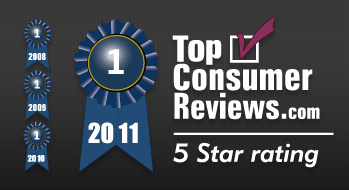
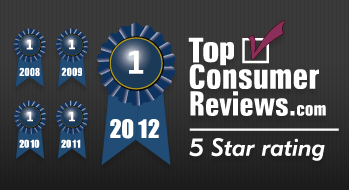
updated top consumer to 2012 on sem page

diff --git a/src/apps/common/static/css/affiliates/sem-landing-page/home.css b/src/apps/common/static/css/affiliates/sem-landing-page/home.css
@@ -77,10 +77,10 @@ a:hover{color:#0069aa;text-decoration:underline;}
 a.button-link{background:#0069aa;color:#ffffff;padding:4px 24px;text-decoration:none;background-image:-moz-linear-gradient(top, #0069aa, #005f9a);background-image:-webkit-gradient(linear, left top, left bottom, from(#0069aa), to(#005f9a));border:1px solid transparent;}a.button-link:hover{background-image:-moz-linear-gradient(center top, #0069aa, #00568b);background-image:-webkit-gradient(linear, left top, left bottom, from(#0069aa), to(#00568b));border:1px solid #094182;border-bottom:1px solid #023269;-webkit-box-shadow:0 1px 1px rgba(0, 0, 0, 0.3);-moz-box-shadow:0 1px 1px rgba(0, 0, 0, 0.3);box-shadow:0 1px 1px rgba(0, 0, 0, 0.3);}
 .phone-alt{display:inline;}
 .button-link{margin-top:16px;}.button-link a{background:#0069aa;color:#ffffff;padding:4px 24px;text-decoration:none;background-image:-moz-linear-gradient(top, #0069aa, #005f9a);background-image:-webkit-gradient(linear, left top, left bottom, from(#0069aa), to(#005f9a));border:1px solid transparent;}.button-link a:hover{background-image:-moz-linear-gradient(center top, #0069aa, #00568b);background-image:-webkit-gradient(linear, left top, left bottom, from(#0069aa), to(#00568b));border:1px solid #094182;border-bottom:1px solid #023269;-webkit-box-shadow:0 1px 1px rgba(0, 0, 0, 0.3);-moz-box-shadow:0 1px 1px rgba(0, 0, 0, 0.3);box-shadow:0 1px 1px rgba(0, 0, 0, 0.3);}
-.button-link span{padding-left:16px;font-size:12px;}.button-link span strong{color:#e51b24;}
+.button-link span{font-size:12px;}.button-link span strong{color:#e51b24;}
 .button-link p.phone-alt{display:inline;padding-left:8px;font-size:12px !important;color:#4a505a !important;}.button-link p.phone-alt strong{color:#e51b24;}
 .button-submit{margin-top:16px;text-align:center;}.button-submit a{background:#0069aa;color:#ffffff;padding:4px 24px;text-decoration:none;background-image:-moz-linear-gradient(top, #0069aa, #005f9a);background-image:-webkit-gradient(linear, left top, left bottom, from(#0069aa), to(#005f9a));border:1px solid transparent;}.button-submit a:hover{background-image:-moz-linear-gradient(center top, #0069aa, #00568b);background-image:-webkit-gradient(linear, left top, left bottom, from(#0069aa), to(#00568b));border:1px solid #094182;border-bottom:1px solid #023269;-webkit-box-shadow:0 1px 1px rgba(0, 0, 0, 0.3);-moz-box-shadow:0 1px 1px rgba(0, 0, 0, 0.3);box-shadow:0 1px 1px rgba(0, 0, 0, 0.3);}
-.button-submit span{padding-left:16px;font-size:12px;}.button-submit span strong{color:#e51b24;}
+.button-submit span{font-size:12px;}.button-submit span strong{color:#e51b24;}
 .button-submit p.phone-alt{display:inline;padding-left:8px;font-size:12px !important;color:#4a505a !important;}.button-submit p.phone-alt strong{color:#e51b24;}
 .button-submit a{background:#90af01;background-image:-moz-linear-gradient(top, #90af01, #829e01);background-image:-webkit-gradient(linear, left top, left bottom, from(#90af01), to(#829e01));border:1px solid transparent;}.button-submit a:hover{background-image:-moz-linear-gradient(center top, #90af01, #687e01);background-image:-webkit-gradient(linear, left top, left bottom, from(#90af01), to(#687e01));border:1px solid #768f03;border-bottom:1px solid #576902;-webkit-box-shadow:0 1px 1px rgba(0, 0, 0, 0.3);-moz-box-shadow:0 1px 1px rgba(0, 0, 0, 0.3);box-shadow:0 1px 1px rgba(0, 0, 0, 0.3);}
 table.data{width:100%;margin:10px 0;border:1px solid #cccccc;-moz-box-shadow:0px 2px 5px #cccccc;-webkit-box-shadow:0px 2px 5px #cccccc;box-shadow:0px 2px 5px #cccccc;border-radius:10px 10px 10px 10px;-moz-border-radius:10px 10px 10px 10px;-webkit-border-top-left-radius:10px;-webkit-border-top-right-radius:10px;-webkit-border-bottom-left-radius:10px;-webkit-border-bottom-right-radius:10px;}table.data thead th{text-transform:uppercase;font-weight:800;text-align:center;padding:5px 5px;background:#d9f2ff;border-bottom:1px solid #cccccc;border-right:1px solid #cccccc;cursor:pointer;cursor:hand;font-size:12px;}table.data thead th span.up-arrow{background:url(../images/up-arrow.png) right no-repeat;padding-right:15px;}
@@ -113,7 +113,7 @@ table#licenses-table tr.license-requirement td{font-size:13px;}
 #share-this{float:left;width:200px;padding:2px 0 0;position:relative;}#share-this #plus-one{float:right;width:120px;padding-top:2px;text-align:right;}
 #share-this #facebook-button{float:right;width:80px;text-align:right;}
 #share-this #share-this-button{float:left;position:absolute;right:0px;top:2px;}
-#sub-navigation{width:960px;margin:4px auto 0px;}#sub-navigation ul{width:960px;padding-bottom:8px;}#sub-navigation ul#sub-nav-parent{width:760px;float:left;padding-bottom:0;}
+#sub-navigation{width:960px;margin:4px auto 0px;}#sub-navigation ul{width:960px;padding-bottom:8px;}#sub-navigation ul#sub-nav-parent{width:960px;float:left;padding-bottom:0;}
 #sub-navigation ul li{height:30px;margin-right:4px;float:left;}#sub-navigation ul li.active{background:url(/static/img/base/nav-arrow.png) center 20px no-repeat;}#sub-navigation ul li.active a{border-bottom:1px solid #333333;}
 #sub-navigation ul li a{color:#4a505a;display:block;font-size:12px;font-weight:normal;outline:0;padding:0px 16px;text-decoration:none;text-align:center;line-height:24px;height:24px;float:left;letter-spacing:.5px;-webkit-transition:background-color 0.7s ease-out;-moz-transition:background-color 0.7s ease-out;transition:background-color 0.7s ease-out;border-bottom:1px solid transparent;}
 #sub-navigation ul li a:hover{color:#0069aa;-webkit-transition:background-color 0.3s ease-out;-moz-transition:background-color 0.3s ease-out;transition:background-color 0.3s ease-out;}
@@ -124,15 +124,17 @@ ul#child-navigation li.active{background:none;}ul#child-navigation li.active.act
 #quote-form h2 a:hover{color:#0066b3;text-decoration:underline;}
 #quote-form h3{color:#0069aa;font-size:20px;border-bottom:none;padding:8px 0px 4px;}
 #quote-form p{margin-bottom:10px;font-size:14px;text-align:justify;line-height:22px;color:#353535;}
-#quote-form #quote-form-error{display:none;position:absolute;z-index:999;width:185px;background:#e51b24;top:217px;left:-215px;border:1px solid #8b0404;-moz-box-shadow:0px 2px 5px #4a505a;-webkit-box-shadow:0px 2px 5px #4a505a;box-shadow:0px 2px 5px #4a505a;opacity:.95;}#quote-form #quote-form-error ul{margin-bottom:4px;}#quote-form #quote-form-error ul li{text-align:left;font-size:12px;line-height:16px;color:#ffffff;list-style-type:disc;margin-left:16px;margin-bottom:4px;}
-#quote-form #quote-form-error strong{font-size:24px;display:block;line-height:48px;color:#ffffff;text-align:left;}
-#quote-form #quote-form-error #error-arrow{position:absolute;right:-24px;top:40px;}
-#quote-form div{background:#0069aa;padding:8px;}#quote-form div p{display:block;font-size:26px;line-height:32px;font-weight:400;text-align:center;color:#ffffff;padding:0;}
+#quote-form #third-party{margin-top:4px;padding:0px;width:275px;z-index:100;}#quote-form #third-party.vsign{margin-bottom:10px;}#quote-form #third-party.vsign table{margin:0 auto 10px;border-radius:10px 10px 10px 10px;-moz-border-radius:10px 10px 10px 10px;-webkit-border-top-left-radius:10px;-webkit-border-top-right-radius:10px;-webkit-border-bottom-left-radius:10px;-webkit-border-bottom-right-radius:10px;text-align:center;width:150px;background:#ffffff;}#quote-form #third-party.vsign table a{position:relative;bottom:4px;padding:0px 5px;margin:0px;margin-bottom:-15px;}
+#quote-form #third-party.hackersafe a img{border-radius:10px 10px 10px 10px;-moz-border-radius:10px 10px 10px 10px;-webkit-border-top-left-radius:10px;-webkit-border-top-right-radius:10px;-webkit-border-bottom-left-radius:10px;-webkit-border-bottom-right-radius:10px;padding:10px;background:#ffffff;}
+#quote-form div{padding:8px;}#quote-form div p{display:block;font-size:26px;line-height:32px;font-weight:400;text-align:center;color:#ffffff;padding:0;}
 #quote-form div label{color:#ffffff;padding:0;}
 #quote-form div input{color:#333333;font-size:18px;height:28px;line-height:28px;margin:0 0 8px;width:251px;}
 #quote-form button{display:block;background:#90af01;color:#ffffff;text-decoration:none;height:36px;line-height:36px;background-image:-moz-linear-gradient(top, #90af01, #829e01);background-image:-webkit-gradient(linear, left top, left bottom, from(#90af01), to(#829e01));border:1px solid transparent;font-size:18px;padding:0 24px;width:257px;font-weight:800;cursor:pointer;cursor:hand;margin-left:8px;}#quote-form button:hover{background-image:-moz-linear-gradient(center top, #90af01, #687e01);background-image:-webkit-gradient(linear, left top, left bottom, from(#90af01), to(#687e01));border:1px solid #768f03;border-bottom:1px solid #576902;-webkit-box-shadow:0 1px 1px rgba(0, 0, 0, 0.3);-moz-box-shadow:0 1px 1px rgba(0, 0, 0, 0.3);box-shadow:0 1px 1px rgba(0, 0, 0, 0.3);}
 #quote-form a{display:block;text-align:center;font-size:10px;padding-top:4px;text-decoration:none;color:#ffffff;}#quote-form a:hover{text-decoration:underline;}
-#call-box{width:926px;margin:0 0 15px;float:left;position:relative;background:#fcfcfc;border:1px solid #eeeeee;padding:24px 16px;margin:32px 0;-webkit-transition:background-color 0.3s ease-out;-moz-transition:background-color 0.3s ease-out;transition:background-color 0.3s ease-out;}#call-box h1{color:#0069aa;font-size:26px;font-weight:normal;line-height:36px;margin-bottom:10px;letter-spacing:-1px;}
+#quote-form-error{display:none;position:absolute;z-index:999;width:250px;background:#e51b24;bottom:20%;left:-275px;border:1px solid #8b0404;padding:8px;-moz-box-shadow:0px 2px 5px #4a505a;-webkit-box-shadow:0px 2px 5px #4a505a;box-shadow:0px 2px 5px #4a505a;opacity:.95;background:#e51b24;}#quote-form-error ul{margin-bottom:4px;}#quote-form-error ul li{text-align:left;font-size:12px;line-height:16px;color:#ffffff;list-style-type:disc;margin-left:16px;margin-bottom:4px;}
+#quote-form-error strong{font-size:24px;display:block;line-height:48px;color:#ffffff;text-align:left;}
+#quote-form-error #error-arrow{position:absolute;right:-24px;top:32%;}
+#call-box{width:926px;margin:0 0 15px;float:left;position:relative;background:#fcfcfc;border:1px solid #cccccc;padding:24px 16px;margin:32px 0;-webkit-transition:background-color 0.3s ease-out;-moz-transition:background-color 0.3s ease-out;transition:background-color 0.3s ease-out;}#call-box h1{color:#0069aa;font-size:26px;font-weight:normal;line-height:36px;margin-bottom:10px;letter-spacing:-1px;}
 #call-box h2{color:#333333;font-size:28px;font-weight:300;line-height:28px;margin-bottom:10px;letter-spacing:-1px;}#call-box h2 a{color:#333333;text-decoration:none;}
 #call-box h2 a:hover{color:#0066b3;text-decoration:underline;}
 #call-box h3{color:#0069aa;font-size:20px;border-bottom:none;padding:8px 0px 4px;}
@@ -159,6 +161,7 @@ ul#child-navigation li.active{background:none;}ul#child-navigation li.active.act
 #legal-bit p{margin-bottom:10px;font-size:14px;text-align:justify;line-height:22px;color:#353535;}
 #legal-bit #terms-conditions{float:left;width:632px;padding-right:16px;border-right:1px solid #cccccc;}#legal-bit #terms-conditions p{font-size:9px;line-height:14px;}
 #legal-bit #copyrights{float:right;width:302px;padding-left:8px;}#legal-bit #copyrights p{text-align:right;font-size:8px;line-height:12px;}
+#limited-time-offer{width:937px;height:110px;border:1px dashed #cccccc;padding:8px;margin-bottom:8px;position:relative;}#limited-time-offer #limited-time-offer-headline{position:absolute;left:8px;top:-8px;}
 .button-link{text-align:center;}
 .outlined-box{border:1px solid #cccccc;padding-bottom:16px;}.outlined-box h2{background:#d9f2ff;padding:8px;border-bottom:1px solid #cccccc;font-weight:normal;}
 .outlined-box h3{padding-left:8px;}
@@ -238,7 +241,7 @@ ul#child-navigation li.active{background:none;}ul#child-navigation li.active.act
 #sidebar-testimonials ul li h4{color:#0069aa;font-weight:800;font-size:14px;text-align:right;line-height:20px;padding-bottom:16px;}
 #sidebar-testimonials ul li p{padding:16px 16px 0;font-size:13px;color:#333333;line-height:20px;font-weight:normal;text-align:justify;position:relative;}#sidebar-testimonials ul li p .testimonial-arrow{position:absolute;left:32px;bottom:-17px;}
 #hero-banner{margin-bottom:10px;}#hero-banner .top-consumers{background:url("/static/img/banners/hero-banners/top-consumer-reviews/top-consumer-reviews-bg.jpg") repeat-x scroll 0 0 #131313;height:250px;width:670px;position:relative;text-decoration:none;}#hero-banner .top-consumers span{color:#cccccc;font-size:16px;left:59px;position:absolute;top:15px;z-index:50;}
-#hero-banner .top-consumers img{left:6px;position:absolute;top:30px;}
+#hero-banner .top-consumers img{left:8px;position:absolute;top:30px;}
 #hero-banner .top-consumers h3{color:#ffffff;font-size:20px;font-weight:normal;letter-spacing:1px;line-height:25px;position:absolute;right:5px;text-shadow:3px 3px 5px #333333;top:16px;width:300px;}#hero-banner .top-consumers h3 strong{color:#00cdff;}
 #hero-banner .top-consumers p{color:#cccccc;font-size:12px;position:absolute;right:25px;top:205px;}
 #hero-banner .newthinking{background:url("/static/img/banners/hero-banners/whole-home-security/adt-vs-pa.jpg") no-repeat scroll center bottom #e5f2fb;width:670px;height:250px;position:relative;text-decoration:none;}#hero-banner .newthinking h3{color:#333333;font-size:30px;line-height:35px;position:absolute;right:10px;text-align:right;top:10px;width:400px;letter-spacing:-1px;}#hero-banner .newthinking h3 span{font-size:27.6px;font-weight:normal;line-height:25px;}

diff --git a/src/templates/affiliates/sem-landing-page/home.html b/src/templates/affiliates/sem-landing-page/home.html
@@ -27,7 +27,7 @@
 <div id="main">
     <div id="hero-banner">
         <a href="http://www.protectamerica.com/pa/copper/home-security-systems" class="top-consumers">
-            <span>For the Fourth Consecutive Year</span>
+            <span>For the Fifth Consecutive Year</span>
             <img width="349" height="190" alt="Best Home Security System - 5 Stars from Top Consumer Reviews" src="/static/img/banners/hero-banners/top-consumer-reviews/top-consumer-reviews.png">
             <h3>
                 "Protect America provides the
@@ -35,7 +35,7 @@
                 solution available today. Their state-of-the-art equipment and 24 hour nationwide monitoring system [are]
                 <strong>top-notch</strong>."
             </h3>
-            <p>-Top Consumer Reviews 2011</p>
+            <p>-Top Consumer Reviews 2012</p>
         </a>
         <a href="http://www.protectamerica.com/pa/copper/home-security-systems" class="consumer-digest-best-buy">
             <img alt="The Best Protection - Consumer Digest Best Buy for the Copper Package" src="/static/img/banners/hero-banners/consumer-digest-banner.jpg" />

diff --git a/src/apps/common/static/less/affiliates/sem-landing-page/home.less b/src/apps/common/static/less/affiliates/sem-landing-page/home.less
@@ -288,7 +288,7 @@
             z-index: 50;
         }
         img {
-            left: 6px;
+            left: 8px;
             position: absolute;
             top: 30px;
         }
